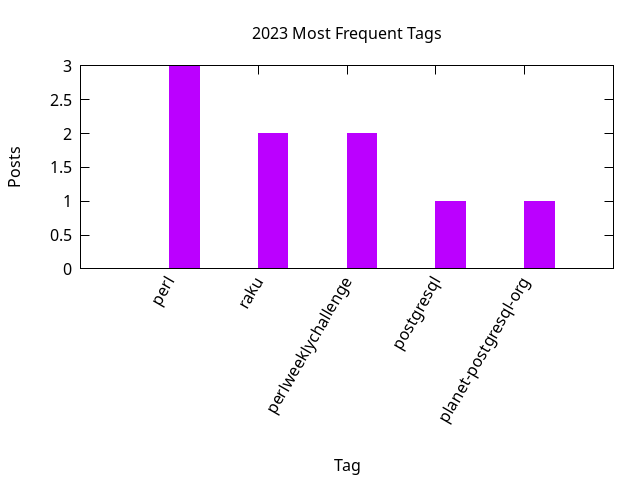
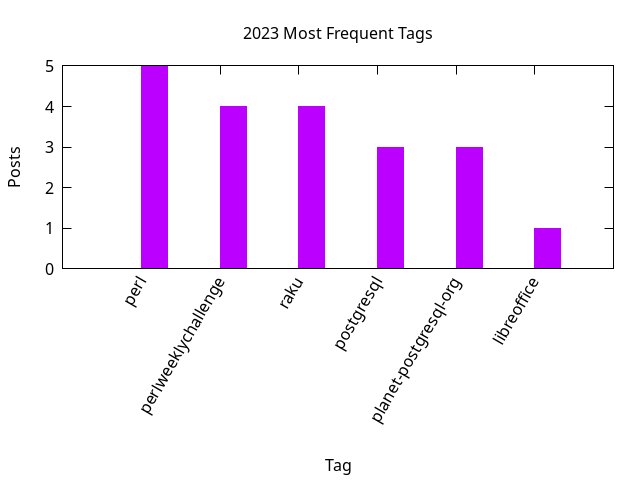
Stats update

diff --git a/_includes/stats/2023.md b/_includes/stats/2023.md
@@ -1,15 +1,16 @@
 <a name="2023" />
 ## 2023 (work in progress)
 
-**4 total posts** have been written on 2023.
-There have been *5 different tags* used, the most
+**9 total posts** have been written on 2023.
+There have been *6 different tags* used, the most
 popular being (sorted by number of posts):
  
-- *perl* (3 posts)  
-- *raku* (2 posts)  
-- *perlweeklychallenge* (2 posts)  
-- *postgresql* (1 posts)  
-- *planet-postgresql-org* (1 posts).<br/>
+- *perl* (5 posts)  
+- *perlweeklychallenge* (4 posts)  
+- *raku* (4 posts)  
+- *postgresql* (3 posts)  
+- *planet-postgresql-org* (3 posts)  
+- *libreoffice* (1 posts).<br/>
 <br/>
 The following is the overall 2023 post ratio by month:
 <br/>
@@ -28,7 +29,7 @@ The following is the overall 2023 post ratio by tag (showing max 30 tags):
 
 <div align="right">
 <small>
-Last generated on 2023-01-13 at 12:59
+Last generated on 2023-01-25 at 12:28
 </small>
 </div>
 
